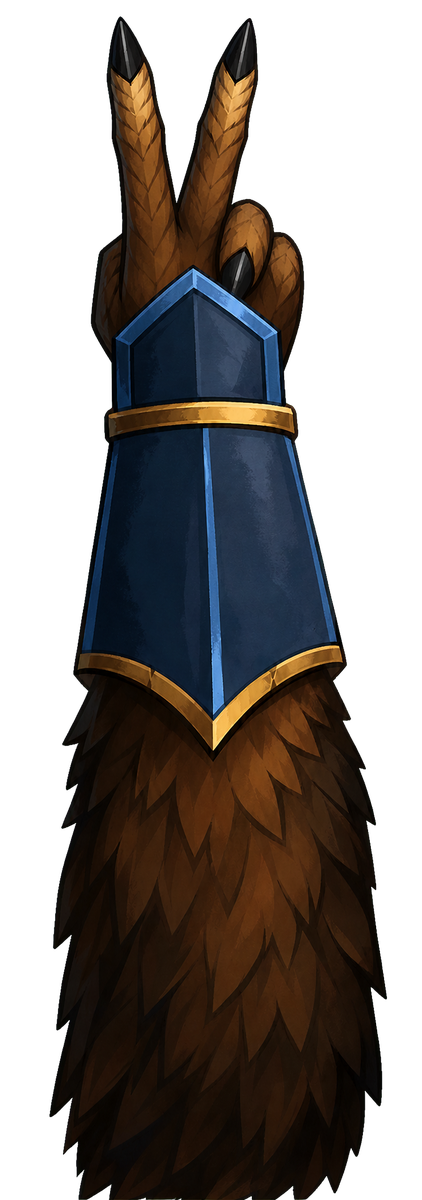
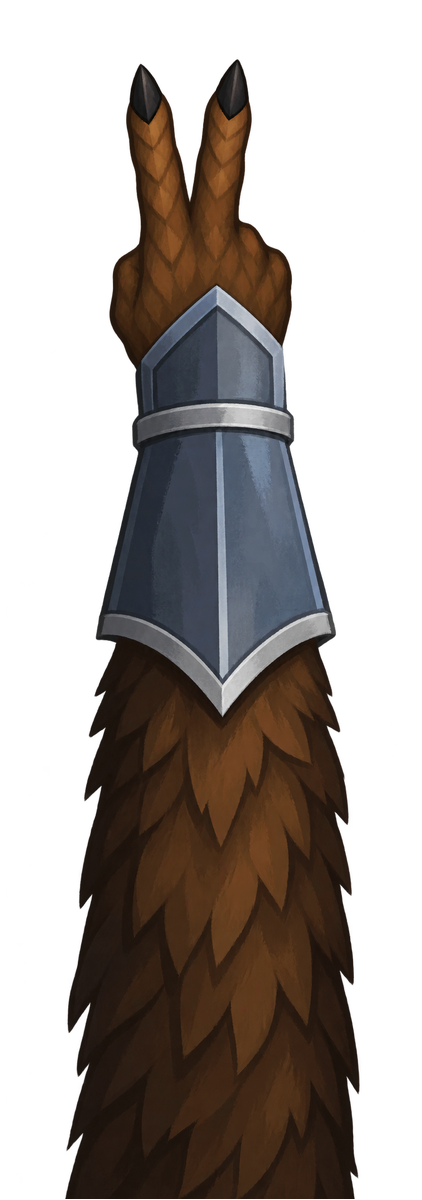
Replace four Nightfarers multiplayer gestures with native-format artwork

diff --git a/tools/normalize_custom_multiplayer_hands.py b/tools/normalize_custom_multiplayer_hands.py
@@ -72,8 +72,8 @@ def clear_revenant_sheet_edge(image: Image.Image) -> Image.Image:
 def normalize(path: Path) -> None:
     image = Image.open(path).convert("RGBA")
     if image.size == TARGET_SIZE:
-        if "revenant_assets" in path.parts:
-            image = clear_revenant_sheet_edge(image)
+        # Native-format redraws are complete arms, not legacy contact-sheet
+        # cells. Cropping their right edge would remove fingers and sleeves.
         image.save(path)
         return
     image = remove_detached_alpha(image)
